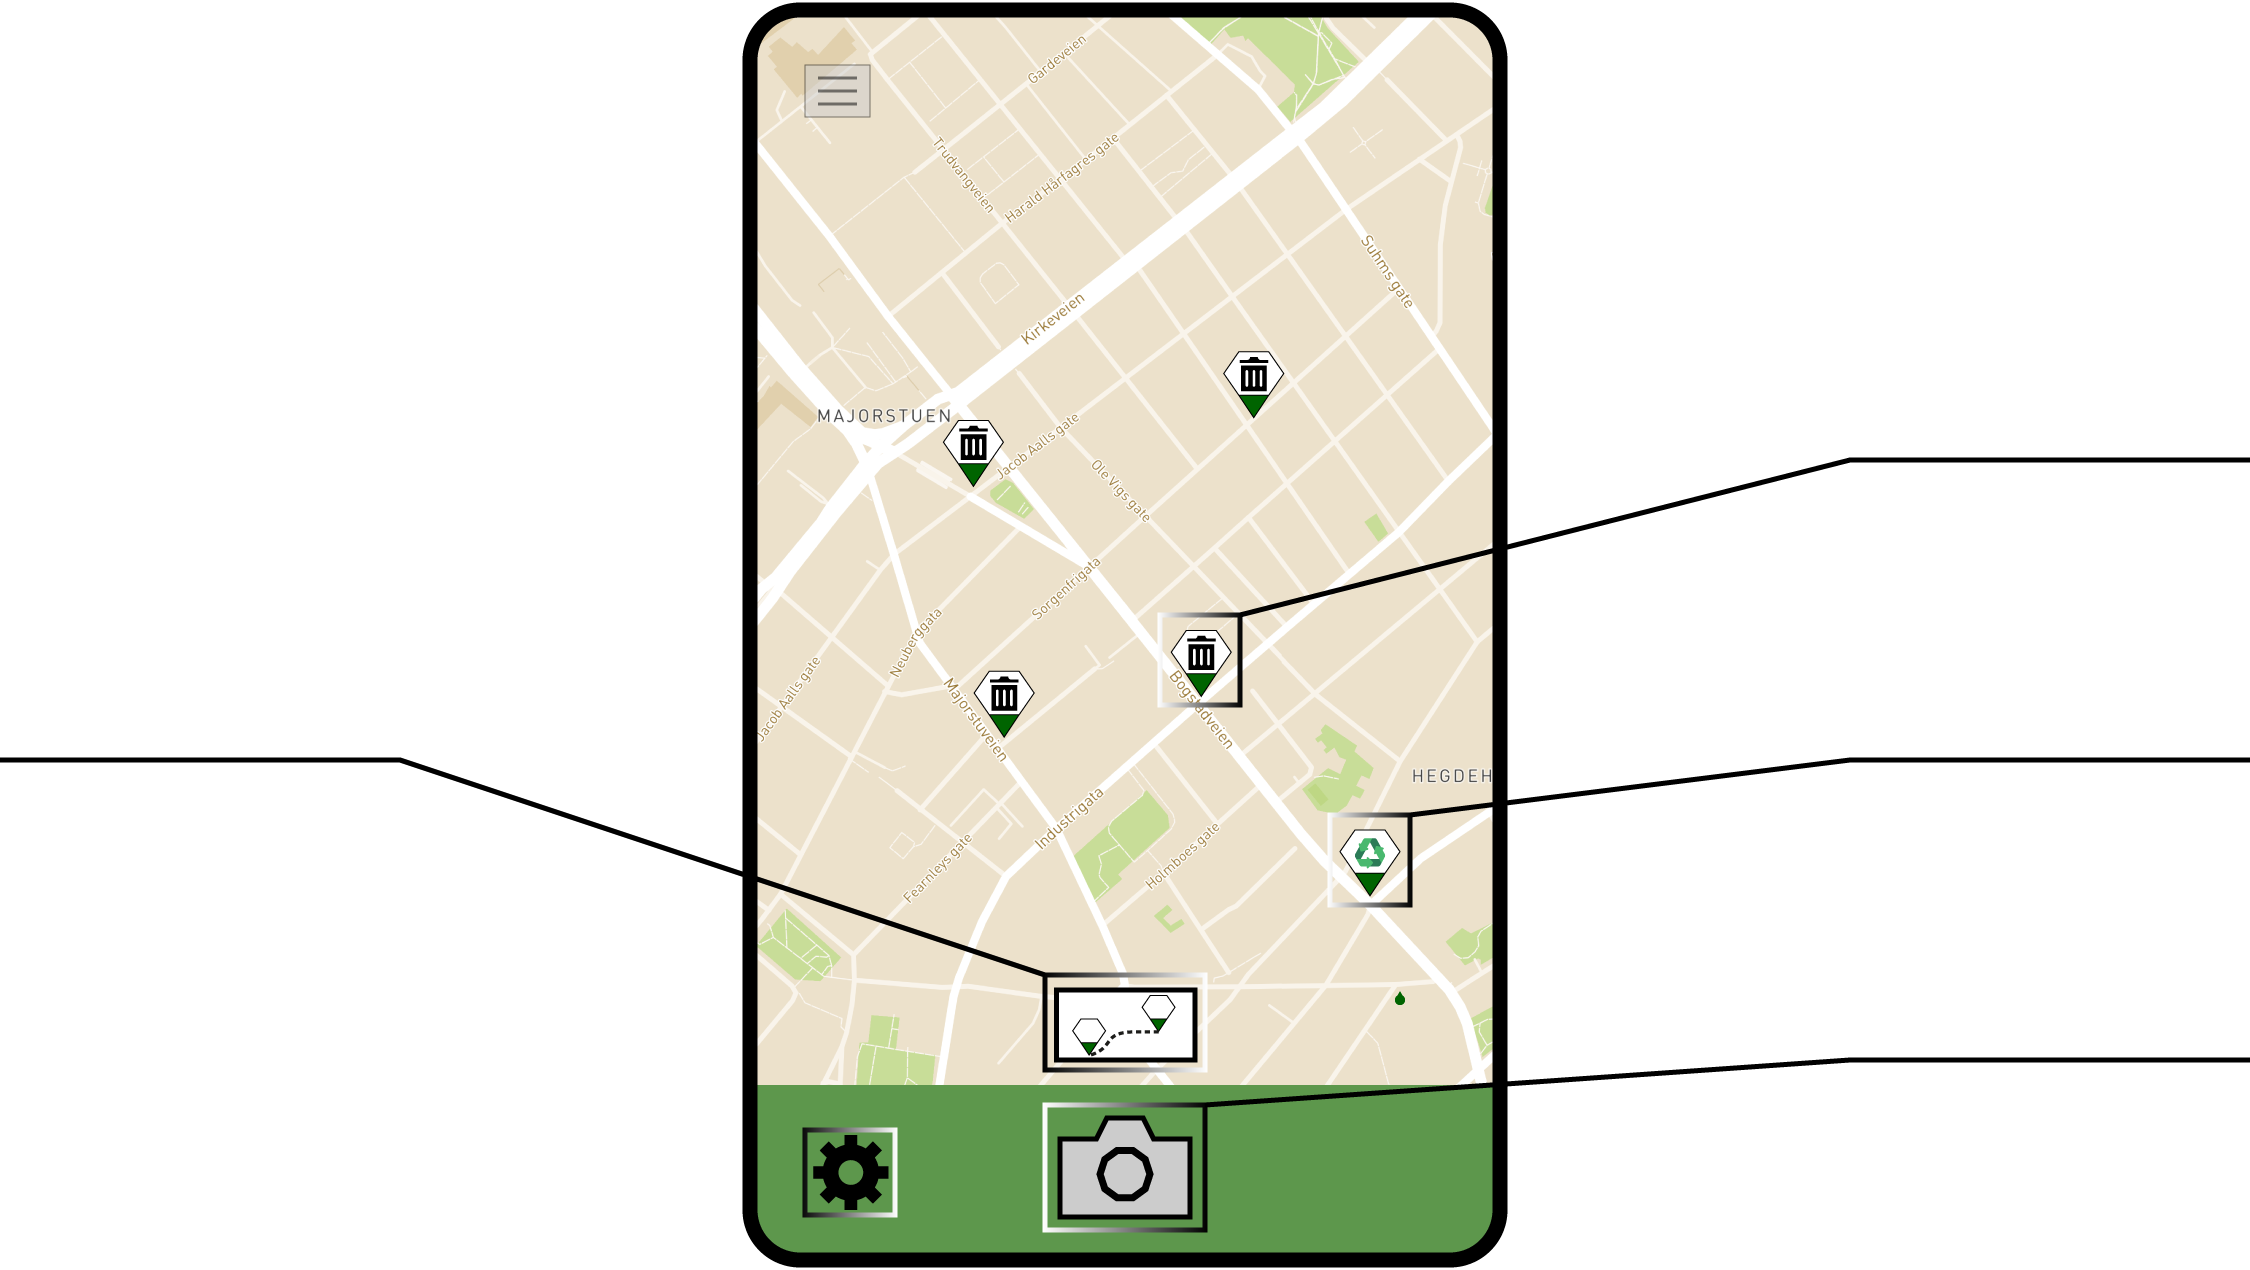
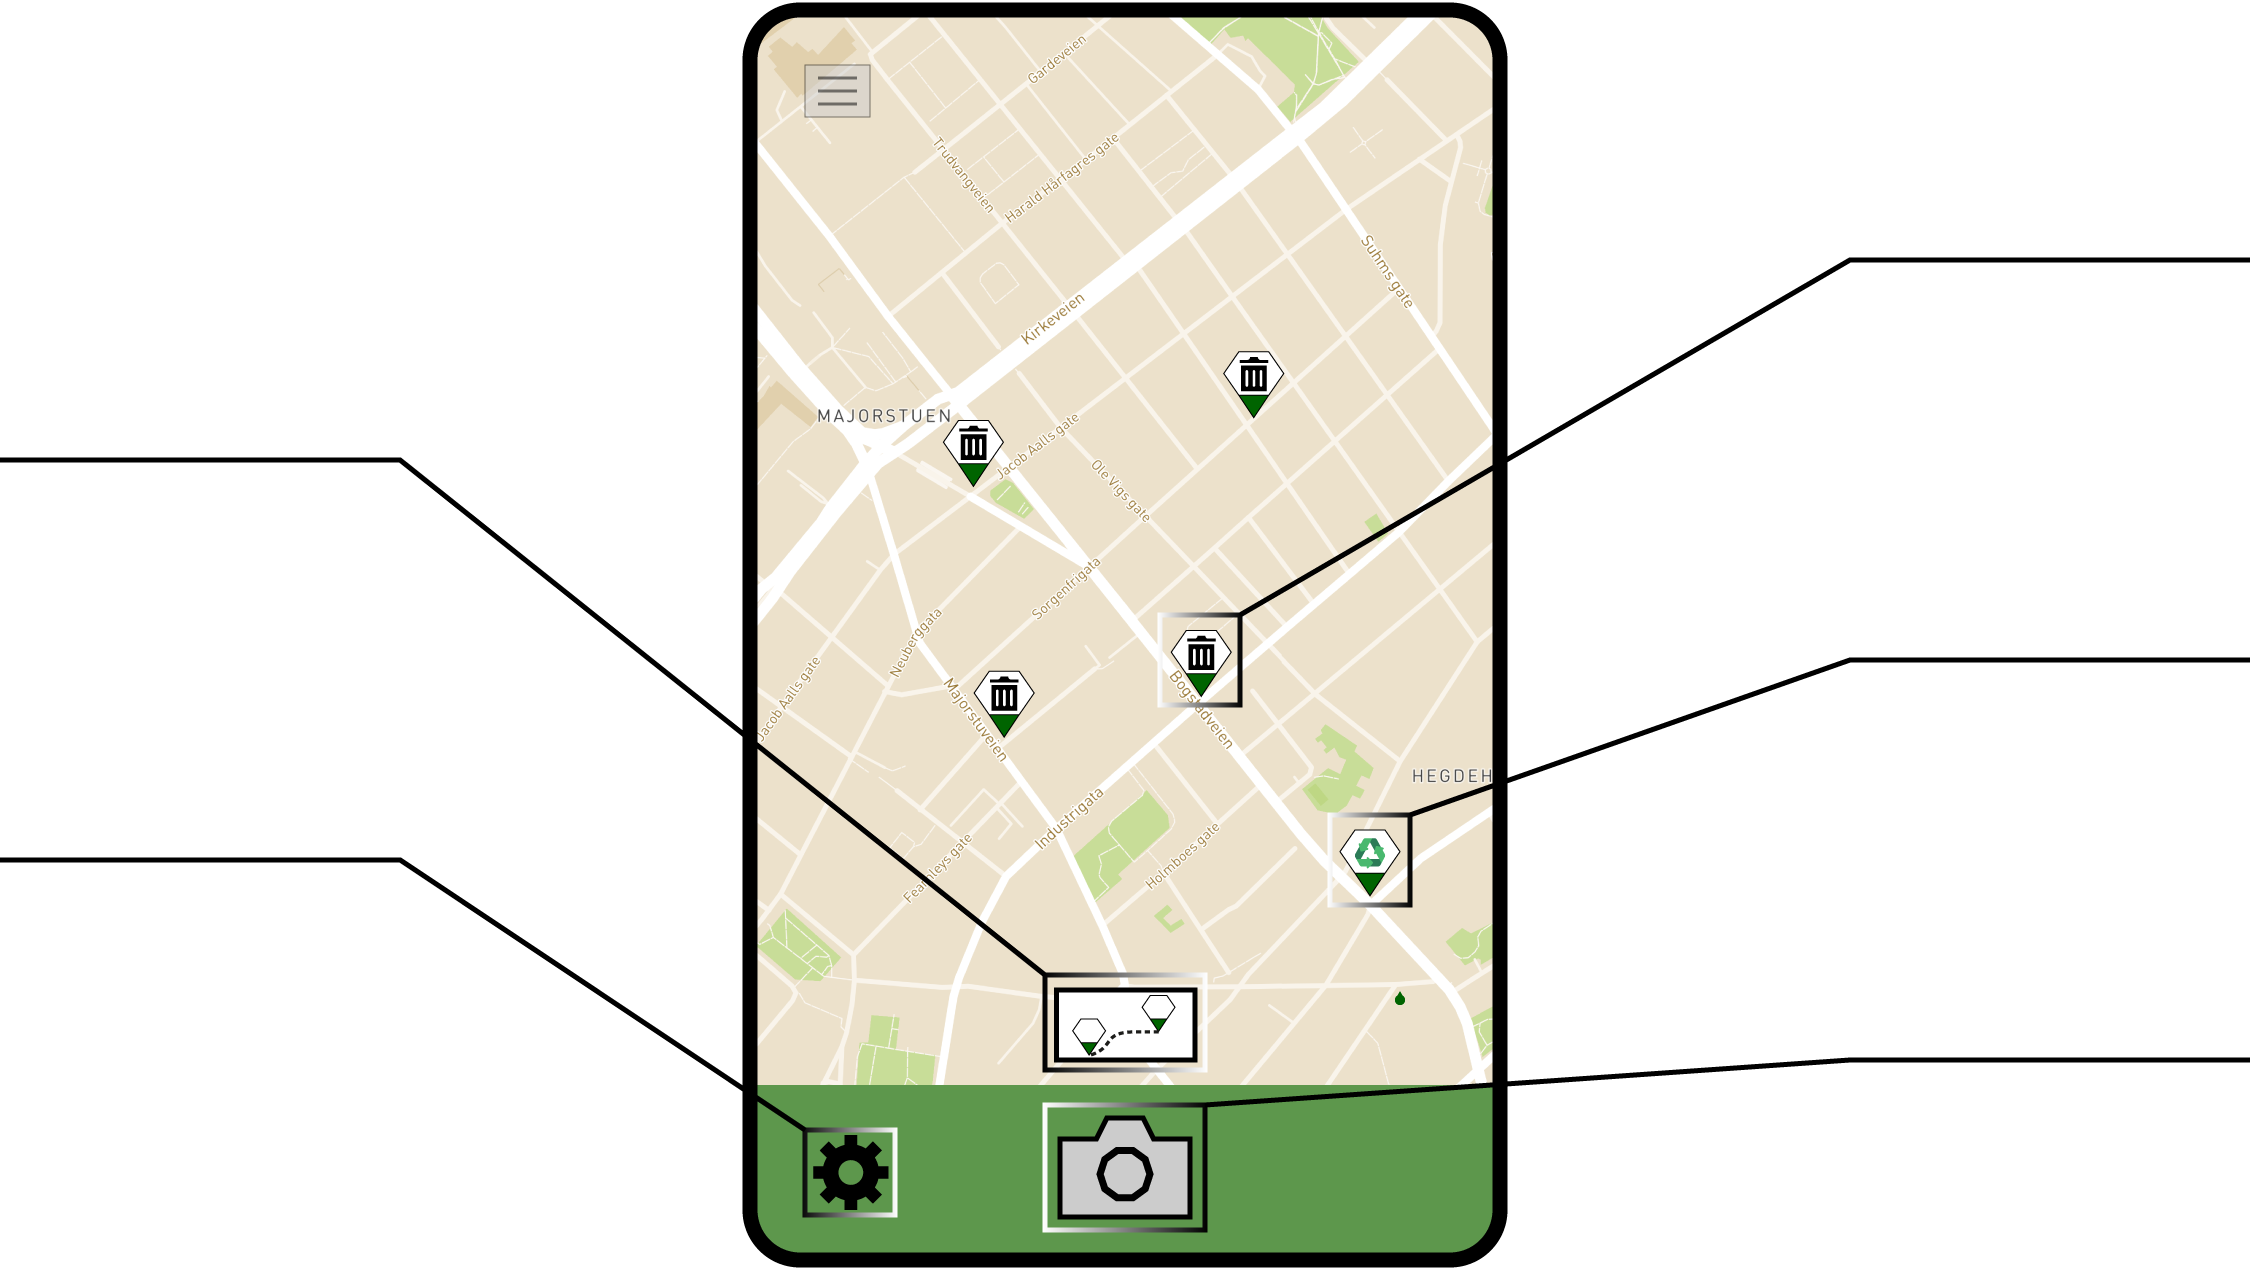
Small Changes.

diff --git a/CSS/how.css b/CSS/how.css
@@ -55,24 +55,24 @@ body {
 
 /*region POI*/
 #routeFinder {
-    top: 51.5%;
+    top: 30.2%;
     left: 0;
     justify-content: flex-start;
 }
 
 #settings {
-    top: 72.8%;
+    top: 58.6%;
     left: 0;
     justify-content: flex-start;
 }
 
 #trashCan {
-    top: 30.2%;
+    top: 16%;
     right: 0;
 }
 
 #recyclingPoint {
-    top: 51.5%;
+    top: 44.3%;
     right: 0;
 }
 
